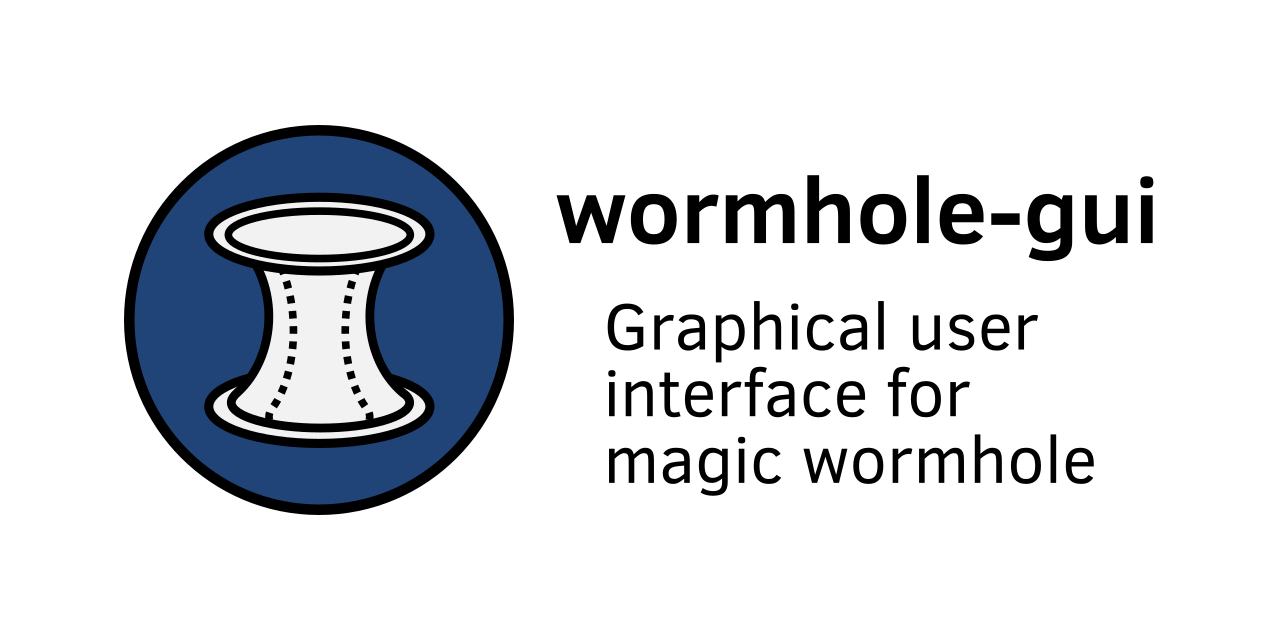
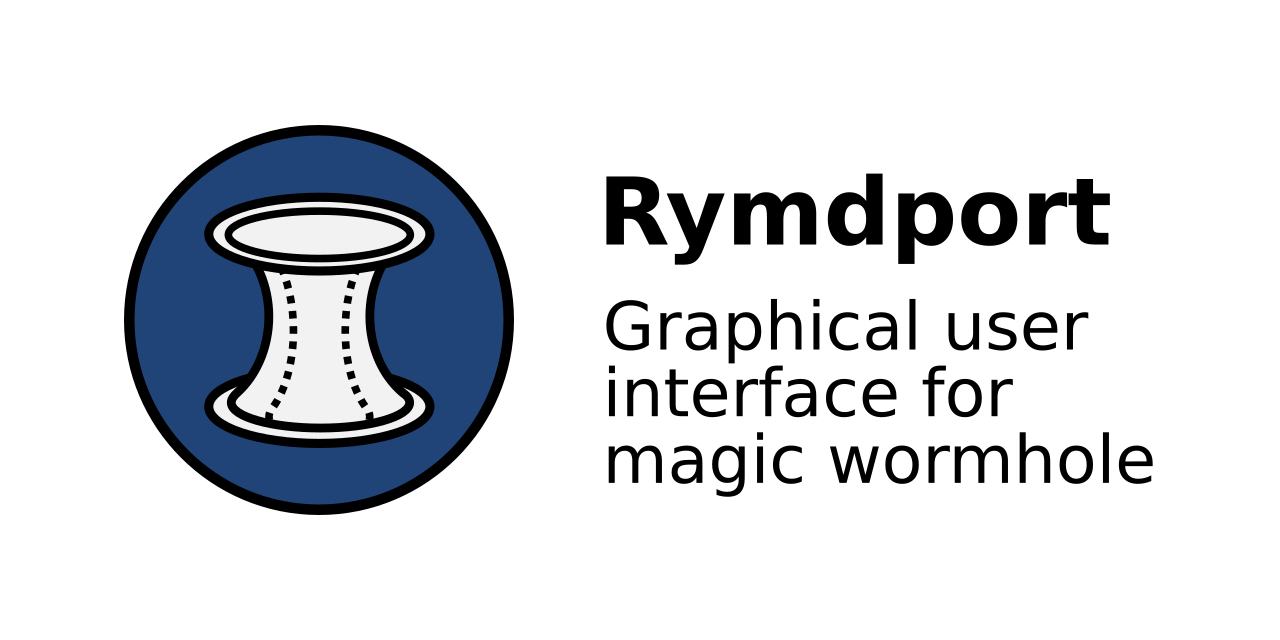
Rename wormhole-gui to rymdport
I have been wanting a better name for quite some time now. Let's do this with the v3.0.0 release.

Changed region(s): [[0.4688, 0.4688, 0.8438, 0.6562], [0.4375, 0.25, 0.9062, 0.4062], [0.4688, 0.6875, 0.9062, 0.7812]]

diff --git a/internal/ui/about.go b/internal/ui/about.go
@@ -9,15 +9,15 @@ import (
 	"fyne.io/fyne/v2/layout"
 	"fyne.io/fyne/v2/theme"
 	"fyne.io/fyne/v2/widget"
-	"github.com/Jacalz/wormhole-gui/v2/internal/assets"
+	"github.com/Jacalz/rymdport/v3/internal/assets"
 )
 
-const version = "v3.0.0-dev"
+const version = "v3.0.0"
 
 var releaseURL = &url.URL{
 	Scheme: "https",
 	Host:   "github.com",
-	Path:   "/Jacalz/wormhole-gui/releases/tag/" + version,
+	Path:   "/jacalz/rymdport/releases/tag/" + version,
 }
 
 type about struct {
@@ -35,7 +35,7 @@ func (a *about) buildUI() *fyne.Container {
 	a.icon = canvas.NewImageFromResource(assets.AppIcon)
 	a.icon.SetMinSize(fyne.NewSize(256, 256))
 
-	a.nameLabel = newBoldLabel("wormhole-gui")
+	a.nameLabel = newBoldLabel("Rymdport")
 	a.spacerLabel = newBoldLabel("-")
 	a.hyperlink = &widget.Hyperlink{Text: version, URL: releaseURL, TextStyle: fyne.TextStyle{Bold: true}}
 

diff --git a/internal/ui/recv.go b/internal/ui/recv.go
@@ -6,9 +6,9 @@ import (
 	"fyne.io/fyne/v2/dialog"
 	"fyne.io/fyne/v2/theme"
 	"fyne.io/fyne/v2/widget"
-	"github.com/Jacalz/wormhole-gui/v2/internal/transport"
-	"github.com/Jacalz/wormhole-gui/v2/internal/transport/bridge"
-	"github.com/Jacalz/wormhole-gui/v2/internal/util"
+	"github.com/Jacalz/rymdport/v3/internal/transport"
+	"github.com/Jacalz/rymdport/v3/internal/transport/bridge"
+	"github.com/Jacalz/rymdport/v3/internal/util"
 )
 
 type recv struct {
@@ -41,7 +41,7 @@ func (r *recv) buildUI() *fyne.Container {
 		Validator: util.CodeValidator,
 	}
 
-	r.codeButton = &widget.Button{Text: "Download", Icon: theme.DownloadIcon(), OnTapped: r.onRecv}
+	r.codeButton = &widget.Button{Text: "Receive", Icon: theme.DownloadIcon(), OnTapped: r.onRecv}
 
 	r.recvList = bridge.NewRecvList(r.window, r.client)
 

diff --git a/main.go b/main.go
@@ -4,14 +4,14 @@ import (
 	"fyne.io/fyne/v2"
 	"fyne.io/fyne/v2/app"
 
-	"github.com/Jacalz/wormhole-gui/v2/internal/assets"
-	"github.com/Jacalz/wormhole-gui/v2/internal/ui"
+	"github.com/Jacalz/rymdport/v3/internal/assets"
+	"github.com/Jacalz/rymdport/v3/internal/ui"
 )
 
 func main() {
-	a := app.NewWithID("io.github.jacalz.wormhole_gui")
+	a := app.NewWithID("io.github.jacalz.rymdport")
 	a.SetIcon(assets.AppIcon)
-	w := a.NewWindow("wormhole-gui")
+	w := a.NewWindow("Rymdport")
 
 	w.SetContent(ui.Create(a, w))
 	w.Resize(fyne.NewSize(700, 400))

diff --git a/internal/ui/send.go b/internal/ui/send.go
@@ -6,9 +6,9 @@ import (
 	"fyne.io/fyne/v2/dialog"
 	"fyne.io/fyne/v2/theme"
 	"fyne.io/fyne/v2/widget"
-	"github.com/Jacalz/wormhole-gui/v2/internal/transport"
-	"github.com/Jacalz/wormhole-gui/v2/internal/transport/bridge"
-	"github.com/Jacalz/wormhole-gui/v2/internal/util"
+	"github.com/Jacalz/rymdport/v3/internal/transport"
+	"github.com/Jacalz/rymdport/v3/internal/transport/bridge"
+	"github.com/Jacalz/rymdport/v3/internal/util"
 )
 
 type send struct {

diff --git a/internal/transport/bridge/recv.go b/internal/transport/bridge/recv.go
@@ -8,8 +8,8 @@ import (
 	"fyne.io/fyne/v2/dialog"
 	"fyne.io/fyne/v2/storage"
 	"fyne.io/fyne/v2/widget"
-	"github.com/Jacalz/wormhole-gui/v2/internal/transport"
-	"github.com/Jacalz/wormhole-gui/v2/internal/util"
+	"github.com/Jacalz/rymdport/v3/internal/transport"
+	"github.com/Jacalz/rymdport/v3/internal/util"
 )
 
 // RecvItem is the item that is being received

diff --git a/internal/ui/settings.go b/internal/ui/settings.go
@@ -9,8 +9,8 @@ import (
 	"fyne.io/fyne/v2/dialog"
 	"fyne.io/fyne/v2/theme"
 	"fyne.io/fyne/v2/widget"
-	"github.com/Jacalz/wormhole-gui/v2/internal/transport"
-	"github.com/Jacalz/wormhole-gui/v2/internal/util"
+	"github.com/Jacalz/rymdport/v3/internal/transport"
+	"github.com/Jacalz/rymdport/v3/internal/util"
 	"github.com/psanford/wormhole-william/wormhole"
 )
 

diff --git a/internal/transport/bridge/send.go b/internal/transport/bridge/send.go
@@ -8,8 +8,8 @@ import (
 	"fyne.io/fyne/v2/dialog"
 	"fyne.io/fyne/v2/storage"
 	"fyne.io/fyne/v2/widget"
-	"github.com/Jacalz/wormhole-gui/v2/internal/transport"
-	"github.com/Jacalz/wormhole-gui/v2/internal/util"
+	"github.com/Jacalz/rymdport/v3/internal/transport"
+	"github.com/Jacalz/rymdport/v3/internal/util"
 )
 
 // SendItem is the item that is being sent.

diff --git a/internal/transport/receiver.go b/internal/transport/receiver.go
@@ -9,8 +9,8 @@ import (
 	"path/filepath"
 
 	"fyne.io/fyne/v2"
-	"github.com/Jacalz/wormhole-gui/v2/internal/transport/zip"
-	"github.com/Jacalz/wormhole-gui/v2/internal/util"
+	"github.com/Jacalz/rymdport/v3/internal/transport/zip"
+	"github.com/Jacalz/rymdport/v3/internal/util"
 	"github.com/psanford/wormhole-william/wormhole"
 )
 

diff --git a/internal/ui/tabs.go b/internal/ui/tabs.go
@@ -3,7 +3,7 @@ package ui
 import (
 	"fyne.io/fyne/v2"
 	"fyne.io/fyne/v2/container"
-	"github.com/Jacalz/wormhole-gui/v2/internal/transport"
+	"github.com/Jacalz/rymdport/v3/internal/transport"
 )
 
 // Create will stitch together all ui components

diff --git a/internal/transport/display.go b/internal/transport/display.go
@@ -10,7 +10,7 @@ import (
 	"fyne.io/fyne/v2/dialog"
 	"fyne.io/fyne/v2/theme"
 	"fyne.io/fyne/v2/widget"
-	"github.com/Jacalz/wormhole-gui/v2/internal/util"
+	"github.com/Jacalz/rymdport/v3/internal/util"
 )
 
 type textRecvWindow struct {

diff --git a/README.md b/README.md
@@ -1,11 +1,11 @@
-# wormhole-gui
+# Rymdport (formerly wormhole-gui)
 
-[![Static Analysis](https://github.com/Jacalz/wormhole-gui/actions/workflows/static_analysis.yml/badge.svg?branch=main)](https://github.com/Jacalz/wormhole-gui/actions/workflows/static_analysis.yml)
-[![Go Report Card](https://goreportcard.com/badge/github.com/Jacalz/wormhole-gui/v2)](https://goreportcard.com/report/github.com/Jacalz/wormhole-gui/v2)
-[![version](https://img.shields.io/github/v/tag/Jacalz/wormhole-gui?label=version)](https://github.com/Jacalz/wormhole-gui/releases/latest)
+[![Static Analysis](https://github.com/Jacalz/rymdport/actions/workflows/static_analysis.yml/badge.svg?branch=main)](https://github.com/Jacalz/rymdport/actions/workflows/static_analysis.yml)
+[![Go Report Card](https://goreportcard.com/badge/github.com/Jacalz/rymdport/v3)](https://goreportcard.com/report/github.com/Jacalz/rymdport/v3)
+[![version](https://img.shields.io/github/v/tag/Jacalz/rymdport?label=version)](https://github.com/Jacalz/rymdport/releases/latest)
 
-Wormhole-gui is a cross-platform application that lets you easily share files, folders and text between devices.
-It uses the Go implementation of magic-wormhole, called [wormhole-william](https://github.com/psanford/wormhole-william), and compiles statically into a single binary. Wormhole-gui is also compatible with sending to and receiving from other wormhole clients, such as the cli applications [wormhole-william](https://github.com/psanford/wormhole-william) and [magic-wormhole](https://github.com/magic-wormhole/magic-wormhole).
+Rymdport (formerly wormhole-gui) is a cross-platform application that lets you easily share files, folders and text between devices.
+It uses the Go implementation of magic-wormhole, called [wormhole-william](https://github.com/psanford/wormhole-william), and compiles statically into a single binary. Rymdport is also compatible with sending to and receiving from other wormhole clients, such as the cli applications [wormhole-william](https://github.com/psanford/wormhole-william) and [magic-wormhole](https://github.com/magic-wormhole/magic-wormhole).
 
 <p align="center">
   <img src="internal/assets/screenshot.png" />
@@ -20,21 +20,21 @@ The initial version was built in less than one day to show how quick and easy it
 
 ## Sponsoring
 
-Wormhole-gui an open source project that is provided free of charge and that will continue to be the case forever. If you use wormhole-gui and appreciate the work being put into it, please consider supporting the development through [GitHub Sponsors](https://github.com/sponsors/Jacalz). This is in no way a requirement, but would be greatly appreciated and would allow for even more improvements to come further down the road.
+Rymdport is an open source project that is provided free of charge and that will continue to be the case forever. If you use this project and appreciate the work being put into it, please consider supporting the development through [GitHub Sponsors](https://github.com/sponsors/Jacalz). This is in no way a requirement, but would be greatly appreciated and would allow for even more improvements to come further down the road.
 
 ## Requirements
 
-Wormhole-gui compiles into a statically linked binary with no runtime dependencies.
+Rymdport compiles into a statically linked binary with no explicit runtime dependencies.
 Compiling requires a [Go](https://golang.org) compiler (1.15 or later) and the [prerequisites for Fyne](https://developer.fyne.io/started/).
 
 ## Downloads
 
-Please visit the [release page](https://github.com/Jacalz/wormhole-gui/releases) for downloading the latest releases.
+Please visit the [release page](https://github.com/Jacalz/rymdport/releases) for downloading the latest releases.
 Pre-built binaries are available for FreeBSD, Linux, macOS (`x86-64` and `arm64`) and Windows (`x86-64`).
 
 The following distrubutions also have binary packages avaliable through the respective package managers:
 
-[![Packaging status](https://repology.org/badge/vertical-allrepos/wormhole-gui.svg)](https://repology.org/project/wormhole-gui/versions)
+[![Packaging status](https://repology.org/badge/vertical-allrepos/rymdport.svg)](https://repology.org/project/rymdport/versions)
 
 ## Building
 
@@ -43,7 +43,7 @@ Systems with the compile-time requirements satisfied can build the project using
 go build
 ```
 
-The project is available in the [Fyne Apps Listing](https://apps.fyne.io/apps/wormhole-gui.html) and can be installed either using the `fyne get` command or using the [Fyne Apps Installer](https://apps.fyne.io/apps/io.fyne.apps.html).
+The project is available in the [Fyne Apps Listing](https://apps.fyne.io/apps/rymdport.html) and can be installed either using the `fyne get` command or using the [Fyne Apps Installer](https://apps.fyne.io/apps/io.fyne.apps.html).
 
 Installation can also be done using GNU Make (installing is currently only supported on Linux and BSD):
 ```bash
@@ -56,4 +56,4 @@ sudo make install
 Contributions are strongly appreciated. Everything from creating bug reports to contributing code will help the project a lot, so please feel free to help in any way, shape or form that you feel comfortable doing.
 
 ## License
-- Wormhole-gui is licensed under `GNU GENERAL PUBLIC LICENSE Version 3`.
+- Rymdport is licensed under `GNU GENERAL PUBLIC LICENSE Version 3`.
